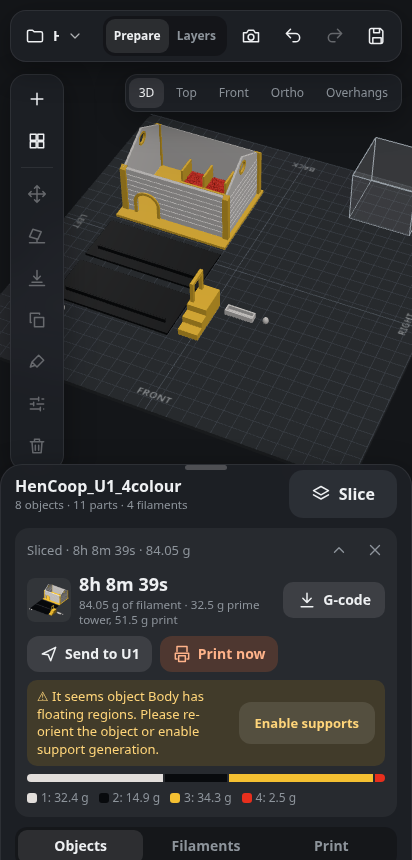
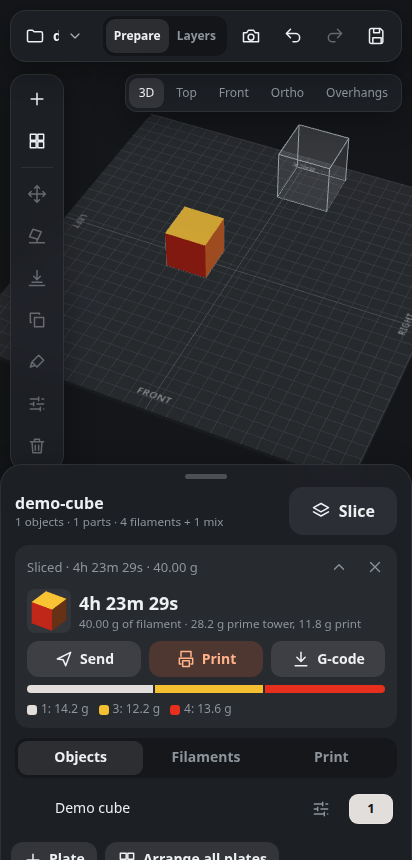
Demo cube example; Send / Print / G-code in one row

diff --git a/static/app.js b/static/app.js
@@ -3067,7 +3067,7 @@ async function sendGcode(body) {
   return r;
 }
 function plateResult(R, d, multi) {
-  // one plate: thumb, time, Layers/G-code, Send/Print
+  // one plate: thumb, time and grams; then Send / Print / G-code in one row
   if (!d.ok) {
     R.append(el('div', 'warn', `⚠ Plate ${d.plate}: ${d.error}`));
     return;
@@ -3091,16 +3091,18 @@ function plateResult(R, d, multi) {
     )
   );
   top.append(tg);
+  R.append(top);
   const a = el('a');
   a.href = d.gcode;
   a.innerHTML = `<span class="ic">${icon('dl')}</span>G-code`;
-  top.append(a);
-  R.append(top);
   const pr = el('div', 'rt'),
     send = el('button', 'btn2'),
     go = el('button', 'btn2 go');
-  send.innerHTML = `<span class="ic">${icon('send')}</span>Send to U1`;
-  go.innerHTML = `<span class="ic">${icon('printer')}</span>Print now`;
+  send.innerHTML = `<span class="ic">${icon('send')}</span>Send`;
+  go.innerHTML = `<span class="ic">${icon('printer')}</span>Print`;
+  send.title = 'Upload the G-code to the U1 (start it on the printer)';
+  go.title = 'Upload and start printing now';
+  a.title = 'Download the G-code';
   send.onclick = async () => {
     const name = await askName(d);
     if (!name) return;
@@ -3126,7 +3128,7 @@ function plateResult(R, d, multi) {
     go.disabled = false;
     if (r) toast(r.started ? `Printing ${r.file}` : `Uploaded ${r.file} (queued: ${r.queued})`);
   };
-  pr.append(send, go);
+  pr.append(send, go, a);
   R.append(pr);
 }
 function showResult(d) {

diff --git a/static/style.css b/static/style.css
@@ -1437,3 +1437,12 @@ img.cam {
     left: 100%;
   }
 }
+
+/* Send / Print / G-code share one row: equal widths, labels never wrap */
+#result .rt .btn2,
+#result .rt a {
+  flex: 1 1 0;
+  justify-content: center;
+  white-space: nowrap;
+  padding: 0 8px;
+}

diff --git a/tools/make_demo.py b/tools/make_demo.py
@@ -1,0 +1,26 @@
+#!/usr/bin/env python3
+"""Build examples/demo-cube.3mf: a 30 mm cube on the default U1 filaments (1 white, 2 black, 3 yellow, 4 red),
+white body, yellow top, red front and an orange right side mixed from yellow + red (Full Spectrum).
+Usage: python3 tools/make_demo.py"""
+
+import sys
+import tempfile
+from pathlib import Path
+
+ROOT = Path(__file__).resolve().parents[1]
+sys.path.insert(0, str(ROOT))
+
+import session  # noqa: E402
+
+with tempfile.TemporaryDirectory() as tmp:
+    s = session.Session(Path(tmp) / "data", Path(tmp) / "models")
+    s.op({"op": "add_primitive", "shape": "box", "size": [30, 30, 30], "name": "Demo cube", "ext": 1})
+    orange = s.op({"op": "mix_add", "ids": [3, 4], "weights": [60, 40]})
+    mix_id = len(s.st["filaments"]) + 1
+    for facing, filament in (("up", 3), ("-y", 4), ("+x", mix_id)):
+        s.op({"op": "paint_region", "id": "o1", "filament": filament, "facing": facing, "max_angle": 10})
+    s.op({"op": "arrange"})
+    out = ROOT / "examples/demo-cube.3mf"
+    out.parent.mkdir(exist_ok=True)
+    out.write_bytes(s.build())
+    print("wrote", out.relative_to(ROOT), "-", orange["msg"])

diff --git a/README.md b/README.md
@@ -6,7 +6,7 @@ printer over Moonraker. Every browser tab, phone and AI agent (via MCP) edits th
 
 It is deliberately not a universal slicer: the printer profile, presets and printer integration are U1-only.
 
-![Prepare view on a phone, after slicing a four-colour hen coop](docs/screenshot.png)
+![Prepare view on a phone, after slicing the demo cube](docs/screenshot.png)
 
 ## Features
 
@@ -58,6 +58,9 @@ cp deploy/env.example .env          # then edit paths and the printer address
 docker compose --env-file .env -f deploy/orca/docker-compose.yml up -d   # Orca CLI container
 python3 server.py                   # http://<host>:3060
 ```
+
+To try it, upload [examples/demo-cube.3mf](examples/demo-cube.3mf) from the project menu: a painted cube with a
+Full Spectrum orange side (rebuilt by `tools/make_demo.py`).
 
 Open the page on a phone and use the browser's "Install app" to get it as a full-screen app (needs HTTPS, for
 example behind the reverse proxy in [deploy/nginx.conf.example](deploy/nginx.conf.example)).
